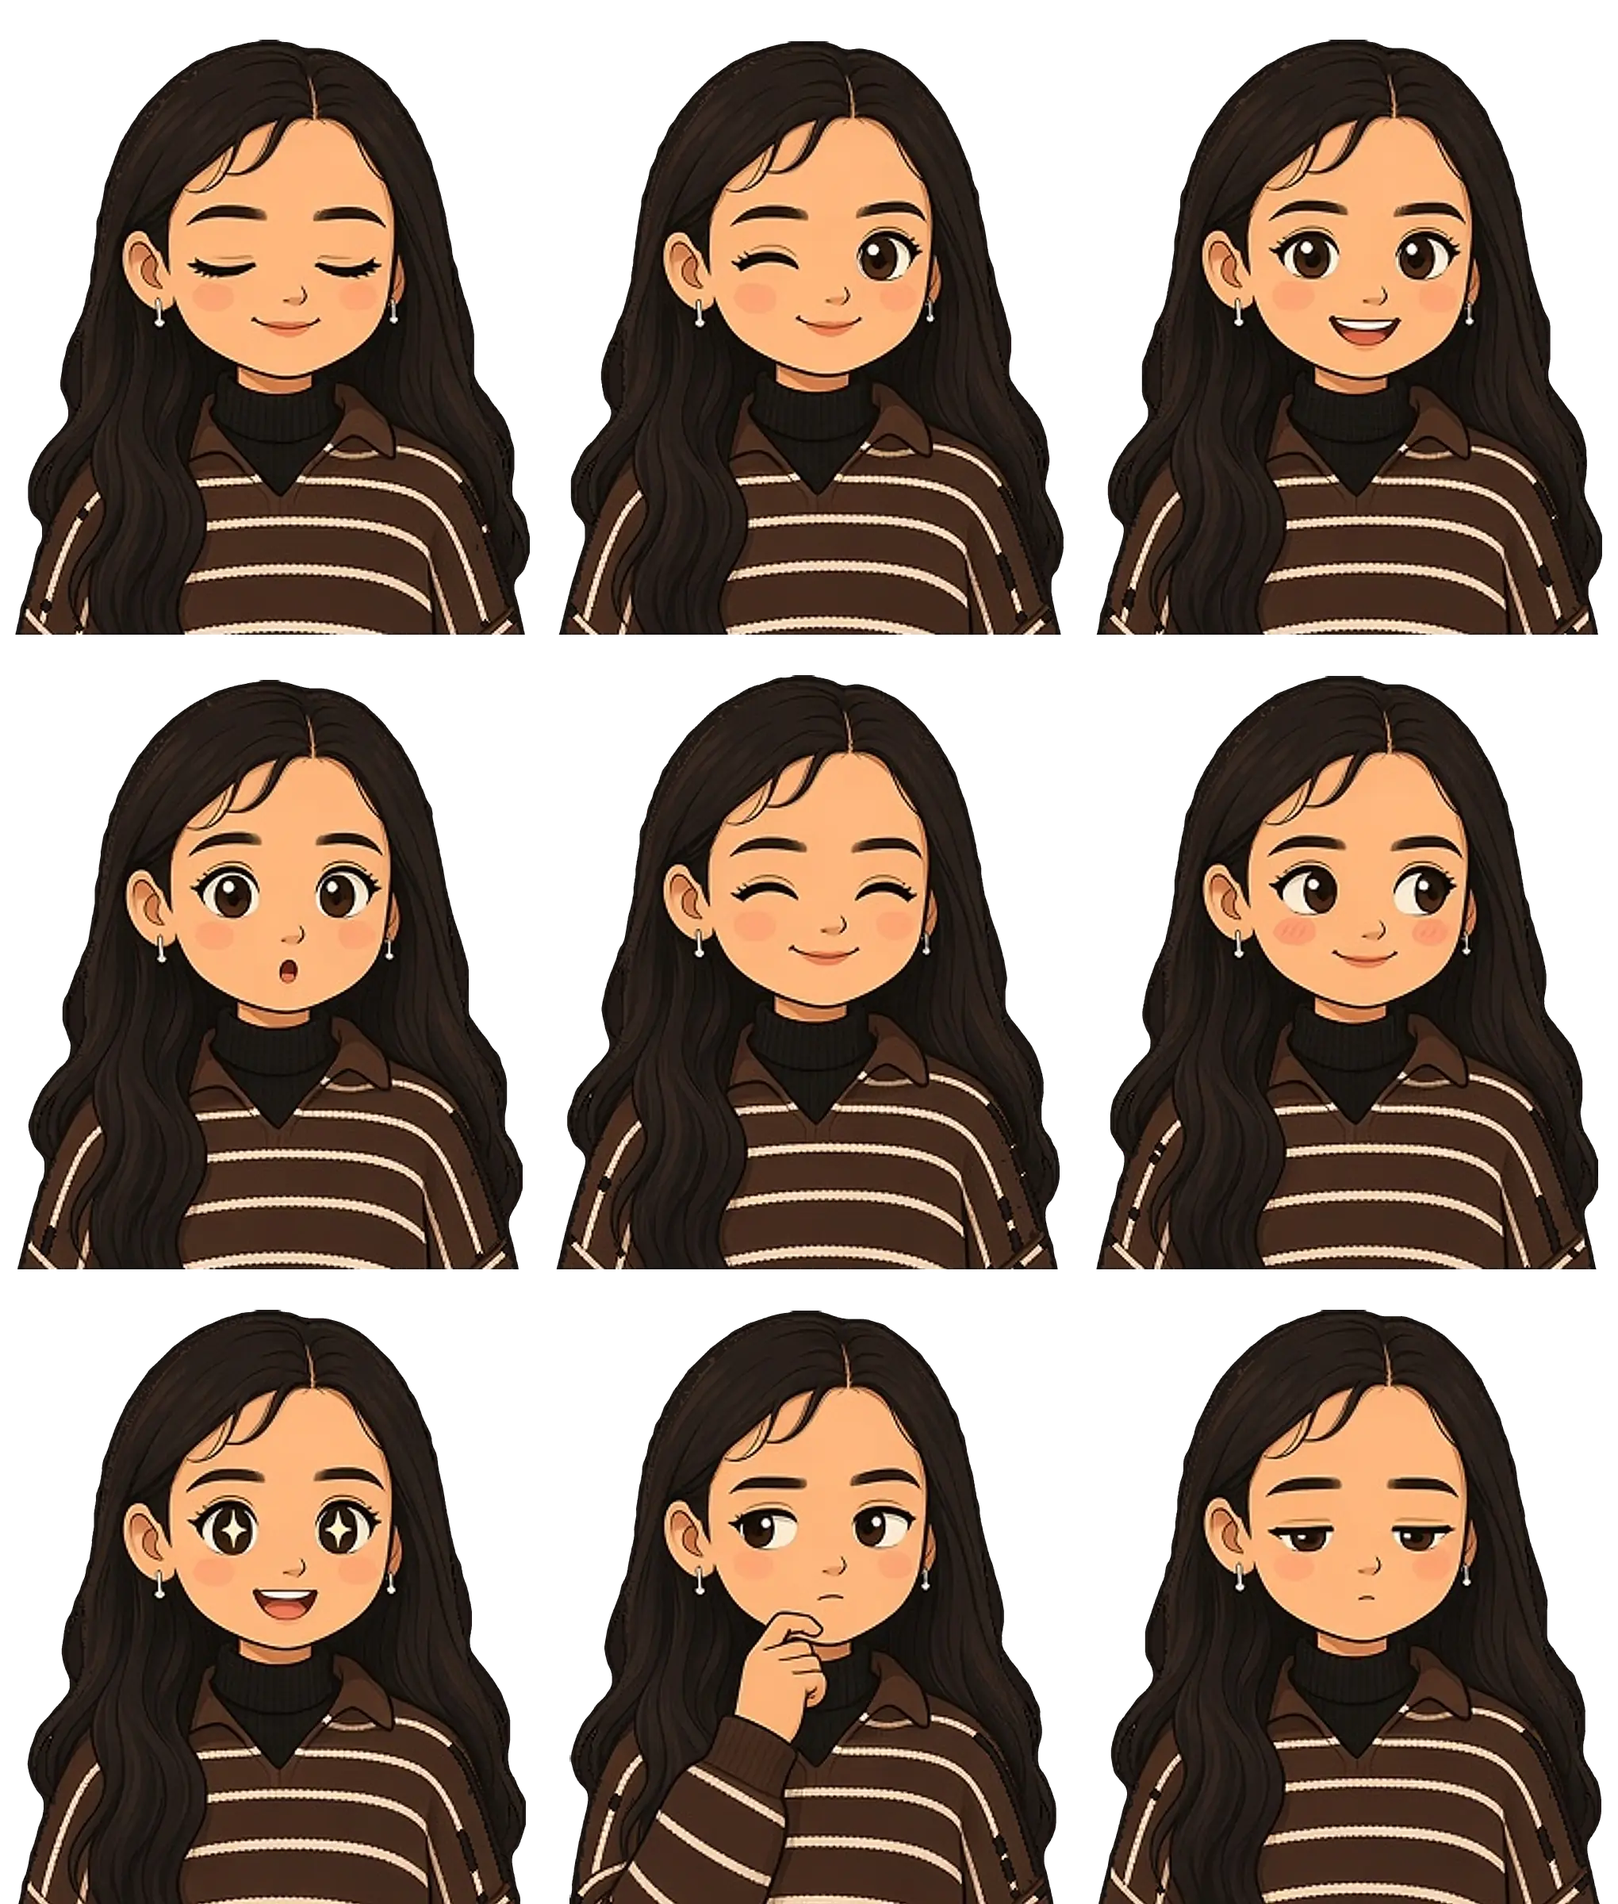
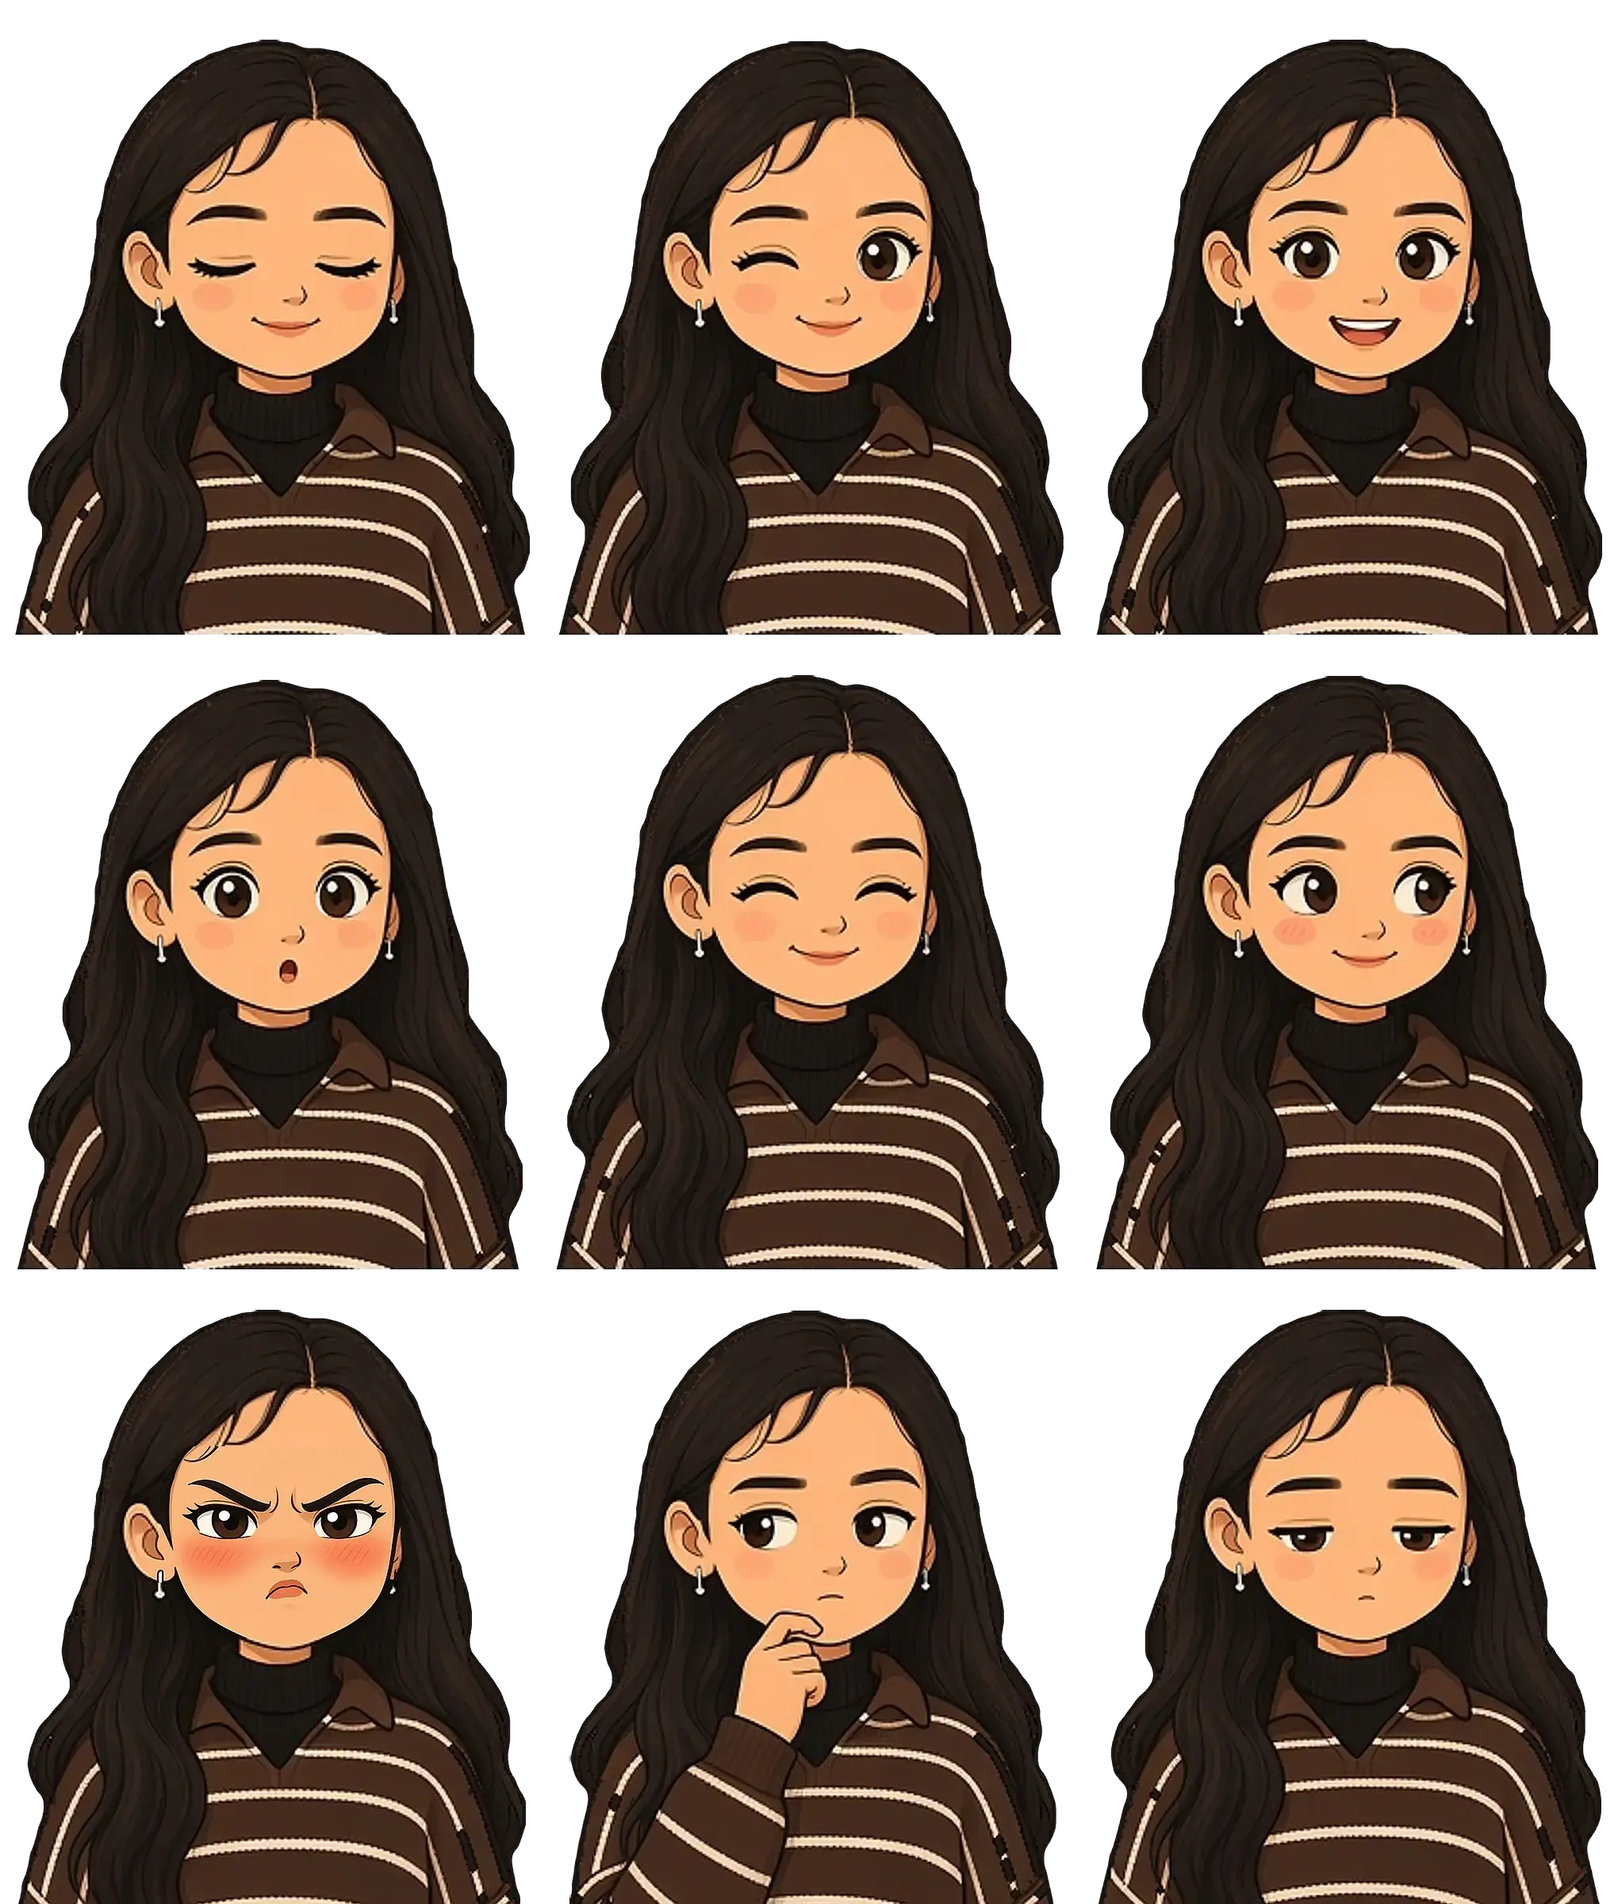
Mascot: angry face when her hair is teased 4-6 times, with escalating lines

Changed region(s): [[0.0926, 0.75, 0.2471, 0.875]]

diff --git a/mascot.js b/mascot.js
@@ -87,10 +87,12 @@
   var GASP = 3;
   var GIGGLE = 4;
   var SHY = 5;
-  // Cell 6 (star eyes) read as blurry, oversized sparkles, so her "excited"
-  // moments use the open grin instead.
+  // Cell 6 was star eyes, which read as blurry, oversized sparkles, so her
+  // "excited" moments use the open grin and the cell holds her angry pout.
   var STARRY = GRIN;
+  var ANGRY = 6;
   var THINKING = 7;
+  var UNIMPRESSED = 8;
   var CENTRE = 4;
   // Reactions whose drawing reaches outside the face (her hand), so they
   // replace the whole figure rather than only the face.
@@ -509,8 +511,9 @@
     if (index === wantLook) return;
     wantLook = index;
     // Where the cursor is comes first: a face she is pulling lets go the
-    // moment it points somewhere else, and she turns straight to it.
-    if (reacting >= 0 && index !== CENTRE && pointer) {
+    // moment it points somewhere else, and she turns straight to it. Except
+    // when she is angry: she keeps glaring at you until it passes.
+    if (reacting >= 0 && reacting !== ANGRY && index !== CENTRE && pointer) {
       if (reactAuto) {
         momentTimers.forEach(clearTimeout);
         momentTimers = [];
@@ -1073,32 +1076,70 @@
     hair: {
       face: GRIN,
       lines: [
-        'psst… I love oiling my hair',
-        'hair oiling is my favourite self-care ritual',
-        'I love my long hair, be gentle!',
-        'fun fact: my hair is wavy by default',
-        [THINKING, 'some days I want straight hair… the waves win'],
-        [WINK, 'wavy hair, straight thinking'],
-        [GASP, 'not the hair! it’s in production'],
-        [GASP, 'hey! that took three iterations'],
-        [GASP, 'careful, it’s a stable release'],
-        'long hair, long roadmap, both well kept',
-        'my waves have their own personality',
-        [WINK, 'oiled, combed, shipped'],
-        [WINK, 'straight hair is my side project'],
-        'these waves don’t follow a template',
-        [GASP, 'low-maintenance hair? never heard of it'],
-        'every wave is a happy accident',
-        'oiled hair, calm mind, clear priorities',
-        [WINK, 'I tried straight hair once. waves filed a bug'],
-        'long hair, don’t care… okay, I care a lot',
-        [GASP, 'hey! no tangles, I just oiled it'],
-        'my waves iterate every single morning',
-        [SHY, 'aww, you like my hair? me too'],
-        [THINKING, 'straight or wavy… let’s A/B test it'],
-        'hair oiling night = my favourite ritual',
-        [GASP, 'careful! that’s years of patient growth'],
-        'these waves came free with the product',
+        [GASP, 'careful! fresh champi, still settling in'],
+        [GASP, 'nooo, I literally just detangled these'],
+        'oil night tonight, shine all week',
+        [WINK, 'coconut oil is my love language'],
+        [SHY, 'aww, you like them? they like you too'],
+        [THINKING, 'sometimes I think, short hair? then I see these waves. never.'],
+        [THINKING, 'what if I cut them short… how would I even look?'],
+        [THINKING, 'a bob cut, maybe? …my hair just said no'],
+        [GIGGLE, 'humidity: 90%. my hair: 300%'],
+        [GIGGLE, 'every wave has a mood. today it’s dramatic'],
+        'one touch, one tangle. choose wisely',
+        [WINK, 'yes, they’re real. no, I won’t share my oil'],
+        [GASP, 'gently! these waves took years of patience'],
+        'my hair has more volume than my playlist',
+        [GIGGLE, 'good hair day? every day. (that’s a lie)'],
+        [SHY, 'oiled, combed and slightly in love with them'],
+        [THINKING, 'short hair would save so much shampoo… still no'],
+        [WINK, 'the waves are natural. the shine is oil.'],
+        [GIGGLE, 'they curl up when they’re shy, like me'],
+        'a little oil, a lot of love. that’s the routine',
+      ],
+    },
+    // The third touch of her hair in a row: she minds, nicely.
+    hairAgain: {
+      face: UNIMPRESSED,
+      lines: [
+        'great. now that’s one more oil session',
+        'I can feel a knot forming. thanks.',
+        [GASP, 'stop! the comb is all the way in my room'],
+        'fine, ruffle them. you’re oiling them later',
+      ],
+    },
+    // Fourth to sixth: properly angry, a little more each time.
+    hairAngry0: {
+      face: ANGRY,
+      lines: [
+        'okay, now I’m angry. hmph!',
+        'that’s it. I’m officially annoyed',
+        'I said tangle ho jayenge! did anyone listen? no.',
+      ],
+    },
+    hairAngry1: {
+      face: ANGRY,
+      lines: [
+        'do you know how long detangling takes?!',
+        'one more touch and you’re doing my champi',
+        'these waves are not a stress ball!',
+      ],
+    },
+    hairAngry2: {
+      face: ANGRY,
+      lines: [
+        'one more and I’m cutting them short! …kidding. never.',
+        'that’s it, I’m tying a bun. no more fun for you',
+        'I’m telling my coconut oil about you',
+      ],
+    },
+    // After that she gives up being angry.
+    hairCalm: {
+      face: SHY,
+      lines: [
+        'okay fine, I can’t stay angry. they forgive you',
+        [GIGGLE, 'hmph… they do look good messy though'],
+        'truce? you bring the oil, I bring the comb',
       ],
     },
     ear: {
@@ -1365,7 +1406,6 @@
   // faces; it is the sequence, the move and the effect that make each one
   // its own expression. Dealt like the lines, every one before any repeats.
   // steps: [face, ms]; move: a class on her box (see .is-m-* in atelier.css).
-  var UNIMPRESSED = 8;
   var MOMENTS = [
     { id: 'hum', steps: [[GIGGLE, 900], [BLINK, 900], [GIGGLE, 700]], move: 'dance', fx: 'note', line: 'la la la… don’t mind me' },
     { id: 'aha', steps: [[THINKING, 1000], [GASP, 260], [GRIN, 1300]], move: 'hop', fx: 'bulb', at: 1000, line: 'ooh! I just had an idea' },
@@ -1487,6 +1527,35 @@
 
   var streak = 0;
   var lastPokeAt = 0;
+  var hairStreak = 0;
+  var lastHairAt = 0;
+
+  // Touching her hair always gets an answer, a ruffle and a little oiled shine.
+  // Keep at it and she minds, then gets properly angry, then forgives you.
+  function hairTouch(t, side) {
+    hairStreak = t - lastHairAt < 4000 ? hairStreak + 1 : 1;
+    lastHairAt = t;
+    momentTimers.forEach(clearTimeout);
+    momentTimers = [];
+
+    var line;
+    if (hairStreak === 1) line = pickLine('hair', SPOTS.hair);
+    else if (hairStreak === 2) line = { face: GASP, text: 'baar baar mat chhedo, tangle ho jayenge!' };
+    else if (hairStreak === 3) line = pickLine('hairAgain', SPOTS.hairAgain);
+    else if (hairStreak <= 6) line = pickLine('hairAngry' + (hairStreak - 4), SPOTS['hairAngry' + (hairStreak - 4)]);
+    else {
+      line = pickLine('hairCalm', SPOTS.hairCalm);
+      hairStreak = 0;
+    }
+    var angry = line.face === ANGRY;
+    var hold = holdFor(line.text) + (angry ? 600 : 0);
+    // Angry is worth turning round to glare at you for, wherever the cursor is.
+    react(line.face, hold, false, angry);
+    say(line.text, hold);
+    gust(hairStreak === 1 ? 8 : angry ? 16 : 12, side);
+    if (hairStreak === 1) burst('spark');
+    if (angry) burst('bang');
+  }
 
   function poke(e) {
     var t = now();
@@ -1499,11 +1568,18 @@
     var step = streak >= 5 ? TEASE[teaseStep] : SPOTS[spot];
 
     // A small flinch away from the finger.
+    var away = Math.random() < 0.5 ? -1 : 1;
     if (e && typeof e.clientX === 'number') {
       var rect = el.getBoundingClientRect();
-      var away = e.clientX < rect.left + rect.width / 2 ? 1 : -1;
+      away = e.clientX < rect.left + rect.width / 2 ? 1 : -1;
       nudge(away * 0.7, -0.35);
       jiggleEarrings(away * 44);
+    }
+
+    if (spot === 'hair') {
+      streak = 0;
+      hairTouch(t, away);
+      return;
     }
 
     if (streak < 5 && Math.random() < 0.5) {
@@ -2089,7 +2165,7 @@
     };
   }
 
-  function gust() {
+  function gust(power, side) {
     if (!breeze || breeze.running || !visible) return;
     var rect = el.getBoundingClientRect();
     breeze.image.setAttribute('width', rect.width);
@@ -2097,10 +2173,10 @@
     breeze.running = true;
     el.classList.add('is-breezy');
 
-    var DURATION = 2600;
+    var DURATION = power ? 1500 : 2600;
     var start = performance.now();
-    var strength = 7 + Math.random() * 5;
-    var dir = Math.random() < 0.5 ? -1 : 1;
+    var strength = power || 7 + Math.random() * 5;
+    var dir = side || (Math.random() < 0.5 ? -1 : 1);
 
     function step(t) {
       var p = (t - start) / DURATION;

diff --git a/atelier.css b/atelier.css
@@ -1628,12 +1628,12 @@ html.atelier .atelier-mascot-layer.is-look {
 /* Phones get a lighter copy of the direction sheet: the mascot is drawn at
    about 240px there, so the full-size cells are wasted bytes on slow links. */
 html.atelier {
-  --mascot-look: url('mascots/deepika-directions.webp?v=20261132');
+  --mascot-look: url('mascots/deepika-directions.webp?v=20261134');
 }
 
 @media (max-width: 760px) {
   html.atelier {
-    --mascot-look: url('mascots/deepika-directions-sm.webp?v=20261132');
+    --mascot-look: url('mascots/deepika-directions-sm.webp?v=20261134');
   }
 }
 
@@ -1642,7 +1642,7 @@ html.atelier {
    has loaded (it reads the URL from --mascot-react) and sets .has-reactions
    on <html> once it has decoded. */
 html.atelier {
-  --mascot-react: url('mascots/deepika-reactions.webp?v=20261132');
+  --mascot-react: url('mascots/deepika-reactions.webp?v=20261134');
 }
 
 /* mascot.js uses the second layer for direction frames too (.is-look), and
@@ -1664,7 +1664,7 @@ html.atelier.has-reactions .atelier-mascot-layer.is-react {
 }
 
 html.atelier.has-reactions .atelier-mascot-lids {
-  background-image: url('mascots/deepika-blinks.webp?v=20261132');
+  background-image: url('mascots/deepika-blinks.webp?v=20261134');
 }
 
 html.atelier .atelier-mascot-lids {
@@ -1690,12 +1690,12 @@ html.atelier .atelier-mascot.has-earrings .atelier-mascot-layer.is-look > .ateli
 
 html.atelier .atelier-mascot-ear.is-cover {
   inset: 0;
-  background-image: url('mascots/deepika-earcover.webp?v=20261132');
+  background-image: url('mascots/deepika-earcover.webp?v=20261134');
   background-size: 300% 300%;
 }
 
 html.atelier .atelier-mascot-ear.is-drop {
-  background-image: url('mascots/deepika-eardrops.webp?v=20261132');
+  background-image: url('mascots/deepika-eardrops.webp?v=20261134');
 }
 
 html.atelier .atelier-mascot-ear.is-left {
@@ -1717,8 +1717,8 @@ html.atelier .atelier-mascot-react {
    mask with the frame. Her hair, jaw and outline always come from the frame
    underneath; an oval reached the jaw and showed a second chin. */
 html.atelier.has-reactions .atelier-mascot-face {
-  -webkit-mask-image: url('mascots/deepika-face-mask.png?v=20261132');
-  mask-image: url('mascots/deepika-face-mask.png?v=20261132');
+  -webkit-mask-image: url('mascots/deepika-face-mask.png?v=20261134');
+  mask-image: url('mascots/deepika-face-mask.png?v=20261134');
 }
 
 html.atelier .atelier-mascot-face {
@@ -6877,7 +6877,7 @@ html.atelier .sb-cameo-art {
 }
 
 html.atelier .sb-cameo-art.is-react {
-  background-image: url('mascots/deepika-reactions.webp?v=20261132');
+  background-image: url('mascots/deepika-reactions.webp?v=20261134');
 }
 
 html.atelier .sb-cameo-art.is-face {

diff --git a/index.html b/index.html
@@ -27,16 +27,16 @@
   <link rel="apple-touch-icon" href="apple-touch-icon.png">
   <link rel="preload" as="font" type="font/woff2" href="fonts/fraunces-latin.woff2" crossorigin>
   <link rel="preload" as="font" type="font/woff2" href="fonts/outfit-latin.woff2" crossorigin>
-  <link rel="preload" as="image" href="mascots/deepika-directions.webp?v=20261132" media="(min-width: 761px)" fetchpriority="high">
-  <link rel="preload" as="image" href="mascots/deepika-directions-sm.webp?v=20261132" media="(max-width: 760px)" fetchpriority="high">
+  <link rel="preload" as="image" href="mascots/deepika-directions.webp?v=20261134" media="(min-width: 761px)" fetchpriority="high">
+  <link rel="preload" as="image" href="mascots/deepika-directions-sm.webp?v=20261134" media="(max-width: 760px)" fetchpriority="high">
   <!-- One shared version token for every local asset. Bump it in both HTML
        files whenever any CSS or JS changes. Per-asset tokens drifted out of
        sync previously, which can serve new CSS against old JavaScript. -->
-  <link rel="stylesheet" href="base.css?v=20261132">
-  <link rel="stylesheet" href="atelier.css?v=20261132">
-  <link rel="stylesheet" href="motion.css?v=20261132">
+  <link rel="stylesheet" href="base.css?v=20261134">
+  <link rel="stylesheet" href="atelier.css?v=20261134">
+  <link rel="stylesheet" href="motion.css?v=20261134">
   <noscript><style>.fx-ch>span{transform:none!important}.home-kicker,.home-subtitle,.home-desc,.home-btns,.home-rotate,.hero-rule{opacity:1!important}.home-photo{filter:none!important;transform:rotate(-3.5deg)!important}</style></noscript>
-  <script src="portfolio-lock.js?v=20261132" defer></script>
+  <script src="portfolio-lock.js?v=20261134" defer></script>
 </head>
 <body>
     <script>
@@ -1367,10 +1367,10 @@
   <script src="vendor/gsap.min.js" defer></script>
   <script src="vendor/ScrollTrigger.min.js" defer></script>
   <script src="vendor/lenis.min.js" defer></script>
-  <script src="contact-form.js?v=20261132" defer></script>
-  <script src="theme-toggle.js?v=20261132" defer></script>
-  <script src="script.js?v=20261132" defer></script>
-  <script src="motion.js?v=20261132" defer></script>
-  <script src="mascot.js?v=20261132" defer></script>
+  <script src="contact-form.js?v=20261134" defer></script>
+  <script src="theme-toggle.js?v=20261134" defer></script>
+  <script src="script.js?v=20261134" defer></script>
+  <script src="motion.js?v=20261134" defer></script>
+  <script src="mascot.js?v=20261134" defer></script>
 </body>
 </html>

diff --git a/my-story.html b/my-story.html
@@ -25,12 +25,12 @@
   <link rel="apple-touch-icon" href="apple-touch-icon.png">
   <link rel="preload" as="font" type="font/woff2" href="fonts/fraunces-latin.woff2" crossorigin>
   <link rel="preload" as="font" type="font/woff2" href="fonts/outfit-latin.woff2" crossorigin>
-  <link rel="preload" as="image" href="mascots/deepika-directions.webp?v=20261132" media="(min-width: 761px)">
-  <link rel="preload" as="image" href="mascots/deepika-directions-sm.webp?v=20261132" media="(max-width: 760px)">
+  <link rel="preload" as="image" href="mascots/deepika-directions.webp?v=20261134" media="(min-width: 761px)">
+  <link rel="preload" as="image" href="mascots/deepika-directions-sm.webp?v=20261134" media="(max-width: 760px)">
   <!-- Keep this token identical to index.html. -->
-  <link rel="stylesheet" href="base.css?v=20261132">
-  <link rel="stylesheet" href="atelier.css?v=20261132">
-  <link rel="stylesheet" href="motion.css?v=20261132">
+  <link rel="stylesheet" href="base.css?v=20261134">
+  <link rel="stylesheet" href="atelier.css?v=20261134">
+  <link rel="stylesheet" href="motion.css?v=20261134">
 </head>
 <body class="my-story-page">
   <script>
@@ -337,10 +337,10 @@
   <script src="vendor/gsap.min.js" defer></script>
   <script src="vendor/ScrollTrigger.min.js" defer></script>
   <script src="vendor/lenis.min.js" defer></script>
-  <script src="script.js?v=20261132" defer></script>
-  <script src="theme-toggle.js?v=20261132" defer></script>
-  <script src="motion.js?v=20261132" defer></script>
+  <script src="script.js?v=20261134" defer></script>
+  <script src="theme-toggle.js?v=20261134" defer></script>
+  <script src="motion.js?v=20261134" defer></script>
   <script src="https://cdn.jsdelivr.net/npm/page-flip@2.0.7/dist/js/page-flip.browser.js" defer></script>
-  <script src="story-book.js?v=20261132" defer></script>
+  <script src="story-book.js?v=20261134" defer></script>
 </body>
 </html>
